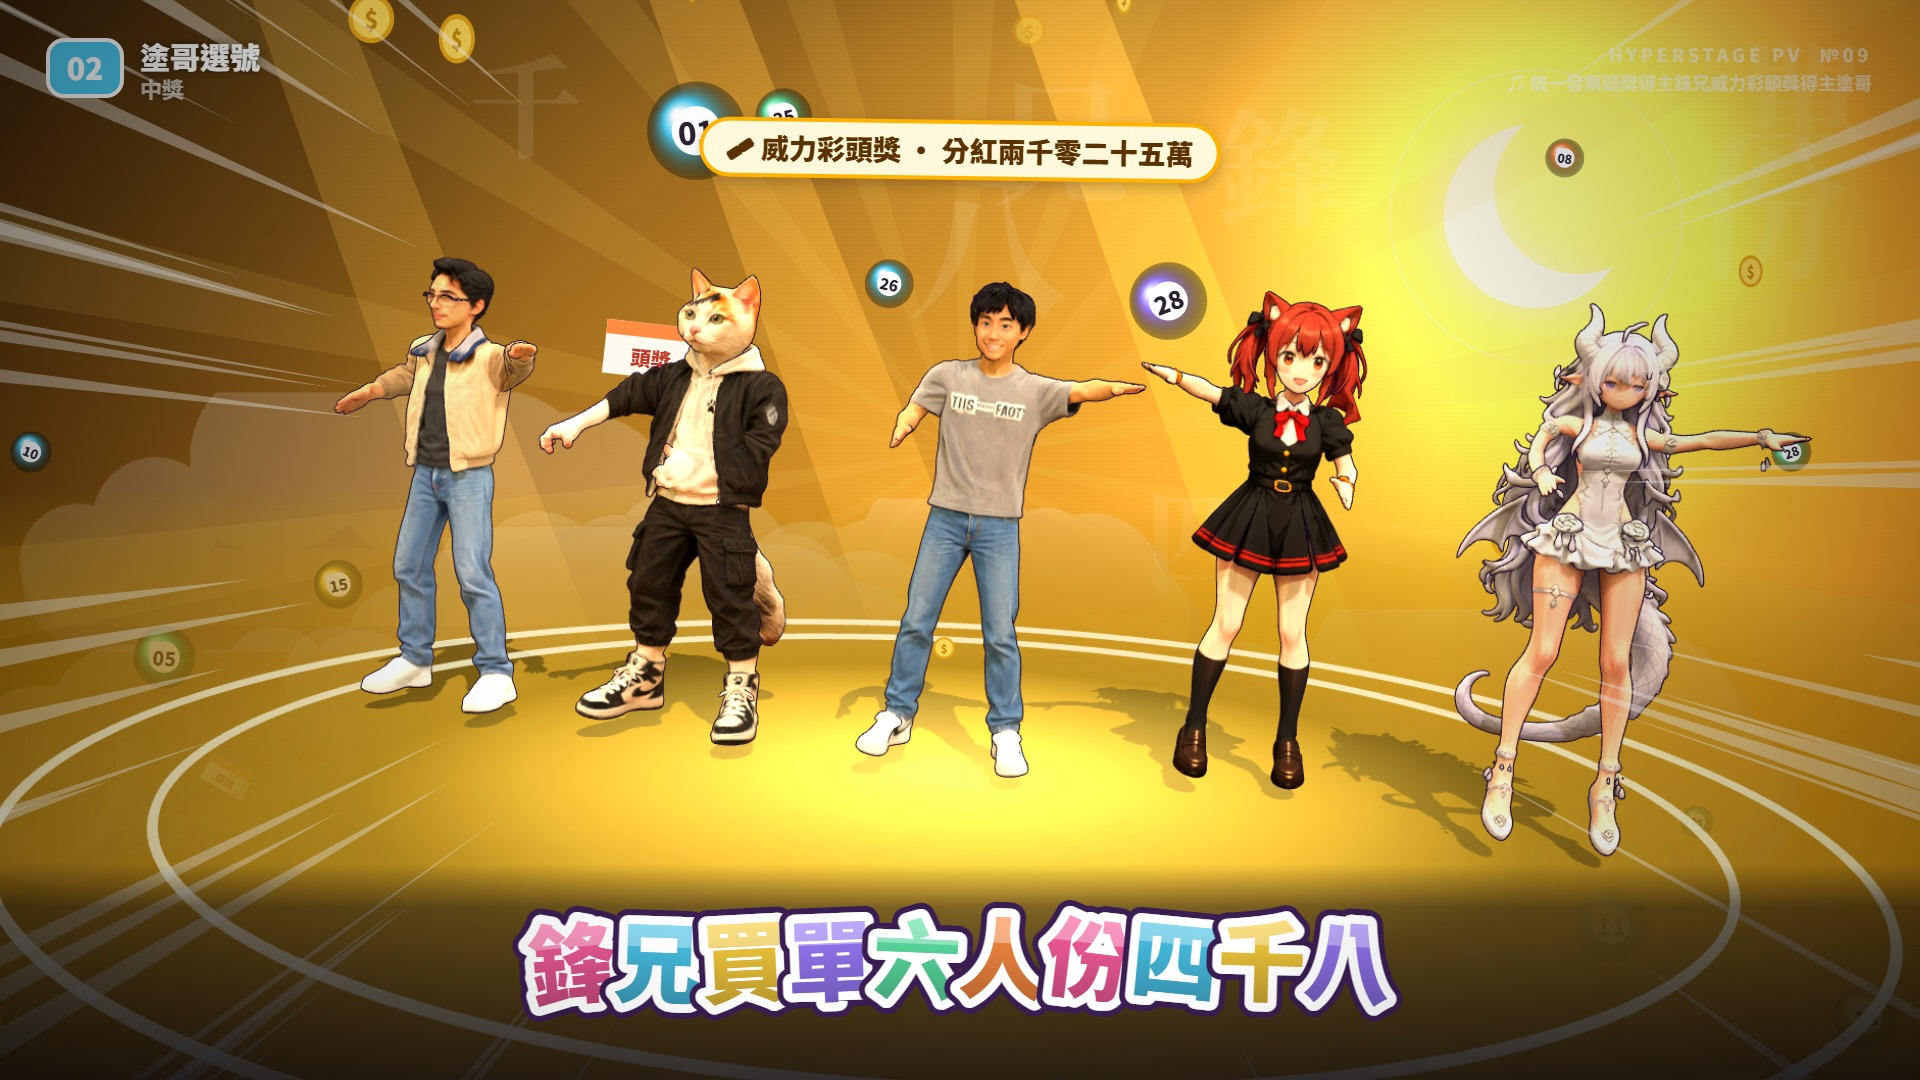
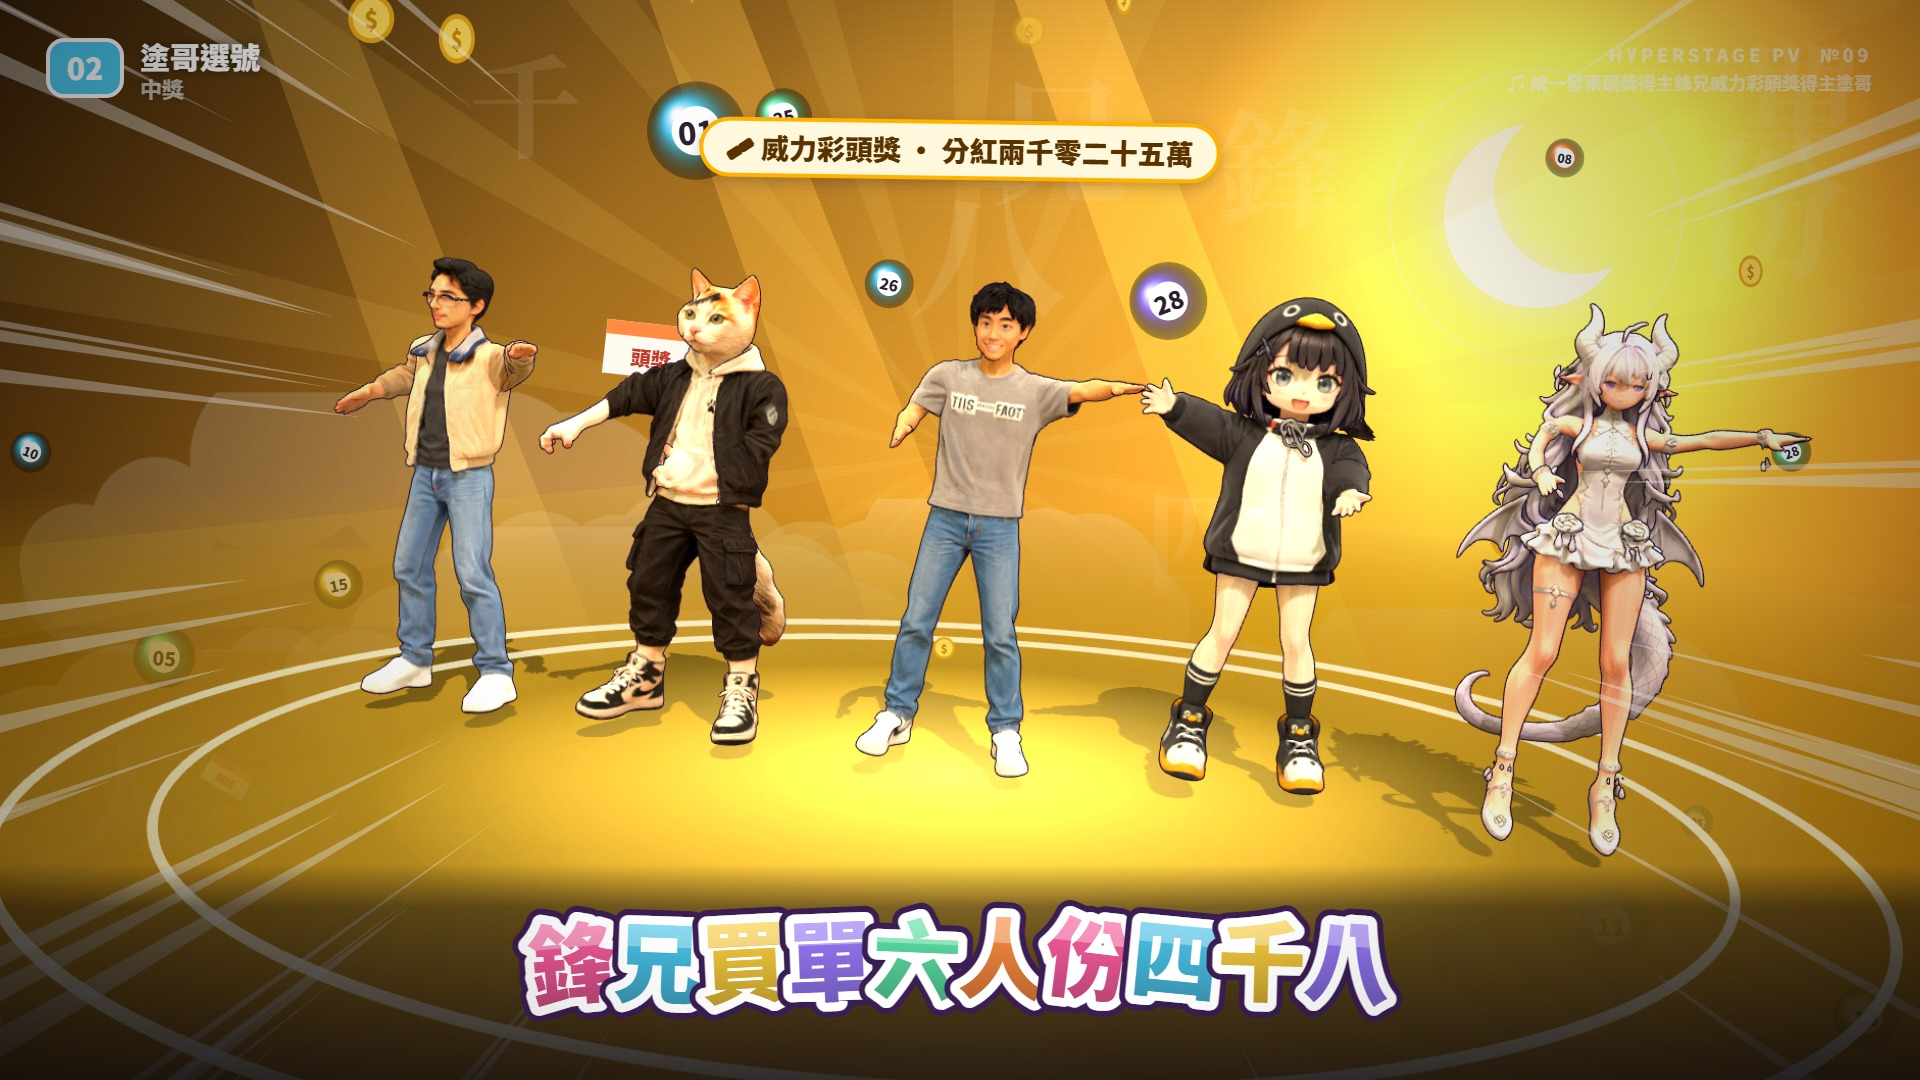
Replace jackpot Yamei with Gugugaga and simplify cast labels

Changed region(s): [[0.5312, 0.275, 0.7188, 0.7639]]

diff --git a/src/performance.js b/src/performance.js
@@ -100,7 +100,11 @@ export function createPerformance({ scene, camera, controls, actor, stage, ring,
   // -------------------------------------------------------------------------
   // Cast choices are remembered per song; the wedding song also accepts the older single-song pref.
   function savedCast(target) {
-    const saved = prefs.casts?.[target.id] ?? (target.id === 'wedding' ? prefs.cast : null);
+    let saved = prefs.casts?.[target.id] ?? (target.id === 'wedding' ? prefs.cast : null);
+    // Upgrade the former jackpot cast saved by earlier visits, including its four-person version.
+    if (target.id.startsWith('s102') && prefs.castRevisions?.[target.id] !== 1 && Array.isArray(saved) && saved[3] === 5) {
+      saved = saved.map((id, i) => i === 3 ? target.defaultCast[3] : id);
+    }
     return Array.isArray(saved) && saved.length >= 4 && saved.length <= target.cast.length && saved.every(id => modelById(id))
       ? [...saved, ...target.defaultCast.slice(saved.length)]
       : target.defaultCast;
@@ -836,7 +840,8 @@ export function createPerformance({ scene, camera, controls, actor, stage, ring,
 
     const ids = castSelects.slice(0, song.cast.length).map(select => Number(select.value));
     prefs.casts = { ...prefs.casts, [song.id]: ids };
-    savePrefs({ casts: prefs.casts });
+    prefs.castRevisions = { ...prefs.castRevisions, [song.id]: 1 };
+    savePrefs({ casts: prefs.casts, castRevisions: prefs.castRevisions });
 
     try {
       const assets = await Promise.all(ids.map(requestAsset));

diff --git a/src/pv/type.js b/src/pv/type.js
@@ -445,7 +445,7 @@ export function drawEnding(ctx, { song, cast }, t, start, end, look, W, H) {
       ctx.save();
       ctx.translate(W / 2 + (i - (names.length - 1) / 2) * spacing, y + 64);
       ctx.scale(k, k);
-      pill(ctx, 0, 0, `${name}.pet`, { size: 24, border: CANDY[i % CANDY.length] });
+      pill(ctx, 0, 0, name, { size: 24, border: CANDY[i % CANDY.length] });
       ctx.restore();
     });
     ctx.globalAlpha = smooth((since - 1.6) / 0.5);
@@ -462,7 +462,7 @@ export function drawEnding(ctx, { song, cast }, t, start, end, look, W, H) {
   }
 }
 
-// Title bar for a ".pet" window that frames a 3D close-up.
+// Title bar for a character window that frames a 3D close-up.
 export function drawWindowFrame(ctx, x, y, w, h, name, color, bg) {
   ctx.save();
   ctx.shadowColor = 'rgba(20,10,40,.4)';
@@ -491,7 +491,7 @@ export function drawWindowFrame(ctx, x, y, w, h, name, color, bg) {
   ctx.fillStyle = '#fff';
   ctx.textAlign = 'left';
   ctx.font = `800 24px ${SANS}`;
-  ctx.fillText(`${name}.pet`, x + 46, y - 25);
+  ctx.fillText(name, x + 46, y - 25);
   for (let i = 0; i < 3; i++) {
     const bx = x + w - 26 - i * 34;
     ctx.strokeStyle = '#fff'; ctx.lineWidth = 3;

diff --git a/tests/effects-songs.test.js b/tests/effects-songs.test.js
@@ -51,7 +51,7 @@ test('the rally action poses and dances with finite values', () => {
 
 test('five-person jackpot cast stays finite, separated and inside the camera clearance', () => {
   for (const song of catalogue.filter(s => s.id.startsWith('s102'))) {
-    assert.deepEqual(song.cast.map(c => c.modelId), [10, 12, 11, 5, 13]);
+    assert.deepEqual(song.cast.map(c => c.modelId), [10, 12, 11, 6, 13]);
     for (const chapter of song.chapters) for (let t = 0; t < 130; t += .37) {
       const poses = song.cast.map((_, i) => actorPose(i, t, { chapterData: chapter, line: 3 }, song.cast.length));
       for (const pose of poses) {

diff --git a/src/pv/main.js b/src/pv/main.js
@@ -436,7 +436,7 @@ function applyLights(look) {
 }
 
 // ---------------------------------------------------------------------------
-// .pet windows: close-ups of each cast member in cute app windows
+// Character windows: close-ups of each cast member in cute app windows
 // ---------------------------------------------------------------------------
 const WINDOW_LAYOUT = [
   { x: 56, y: 168, w: 430, h: 640, r: -0.03 },

diff --git a/src/lucky-translations.js b/src/lucky-translations.js
@@ -4,7 +4,7 @@ const cast = [
   { name: '鋒兄', modelId: 10 },
   { name: '喵布布', modelId: 12 },
   { name: '塗哥', modelId: 11 },
-  { name: '牙妹', modelId: 5 },
+  { name: '咕咕嘎嘎', modelId: 6 },
   { name: 'GPT 娘', modelId: 13 },
 ];
 const staging = [

diff --git a/src/effects-songs.js b/src/effects-songs.js
@@ -1370,8 +1370,8 @@ export const effectsSongs = [
     "modelId": 11
    },
    {
-    "name": "牙妹",
-    "modelId": 5
+    "name": "咕咕嘎嘎",
+    "modelId": 6
    },
    {
     "name": "GPT 娘",

diff --git a/tools/import-effects-songs.py b/tools/import-effects-songs.py
@@ -113,7 +113,7 @@ SONGS = {
         ],
     },
     's102': {
-        'cast': ['鋒兄', '喵布布', '塗哥', '牙妹', 'GPT 娘'],
+        'cast': ['鋒兄', '喵布布', '塗哥', '咕咕嘎嘎', 'GPT 娘'],
         'outro': '— 謝幕 · 中獎是日常 —',
         'chapters': [
             ('招財喵 · 生日祝福', 'rally', [0], '🎂 鋒兄三十七歲生日快樂'),

diff --git a/README.md b/README.md
@@ -89,14 +89,14 @@ npm run dev
 
 重新匯入：`python3 tools/import-effects-songs.py <Effects 路徑>`，會複製音檔到 `public/audio/` 並產生 `src/effects-songs.js`；分幕標題與角色在腳本內編寫。
 
-《統一發票頭獎得主鋒兄威力彩頭獎得主塗哥》的中文、英文、日文、粵文版本保留鋒兄、喵布布、塗哥、牙妹，新增 GPT 娘為第五位角色。模型來自提供的 `gptmusume-pose.fbx`，含 33 根骨骼與蒙皮；PV 與歌詞劇場皆支援五人站位、骨架編舞和角色切換，PV 的 `.pet` 特寫亦會顯示五位角色。既有 Release MP4 為先前四人版本。
+《統一發票頭獎得主鋒兄威力彩頭獎得主塗哥》的中文、英文、日文、粵文版本由鋒兄、喵布布、塗哥、咕咕嘎嘎、GPT 娘五位角色演出。GPT 娘模型來自提供的 `gptmusume-pose.fbx`，含 33 根骨骼與蒙皮；PV 與歌詞劇場皆支援五人站位、骨架編舞和角色切換。PV 的角色視窗與謝幕名單只顯示角色名稱，不加檔名後綴。既有 Release MP4 為先前四人版本。
 
 ## PV（每首歌的音樂影片）
 
 首頁 `index.html` 是二次元風格的 PV 播放／渲染器（原本的編輯器與歌詞劇場移到第二版本 `v2.html`，劇場播放列的「▶ 看 PV」會開啟目前歌曲的 PV），12 首歌皆可即時播放或輸出 1920×1080、30 fps 的 PV，畫面全部由原曲 MP3 與逐句時間軸驅動：
 
 - **角色**：FBX 班底改為賽璐璐卡通著色（三階色階＋反轉外殼描邊），沿用程序式骨架舞蹈與雙人牽手／抱抱。
-- **運鏡**：依歌詞逐句切鏡：遠景、推近、單人、臉部特寫、仰角、環繞、搖臂、斜角；副歌每四拍切一次。另有「角色.pet」視窗鏡頭，用四個浮動視窗同時呈現每位角色的特寫。
+- **運鏡**：依歌詞逐句切鏡：遠景、推近、單人、臉部特寫、仰角、環繞、搖臂、斜角；副歌每四拍切一次。另有角色視窗鏡頭，依歌曲人數使用四或五個浮動視窗呈現每位角色的特寫。
 - **字卡**：每一句都用同一條底部貼紙字，落在預留的底欄，不擋角色的頭、手、腳。字級由「列數 × 底欄高度 × 可用寬度」共同決定，程式會逐一試算 1～4 列、取字最大的排法（長句通常落在兩列），所以最長的句子也有約 43px，短句到 88px。開場有標題卡＋打字搜尋列，結尾有謝幕與 CAST。
 - **背景**：每首歌各有配色與主題（月夜、賽璐璐雲、櫻花、聚光燈、藍圖、程式雨、紀念冊橫線、新聞跑馬燈等），粒子會隨章節情緒切換（彩紙、愛心、樂透球、金幣、貓掌、音符、閃電…），重拍時出現漫畫集中線。音量包絡線由瀏覽器解碼 MP3 計算，驅動光暈與鏡頭震動。
 
